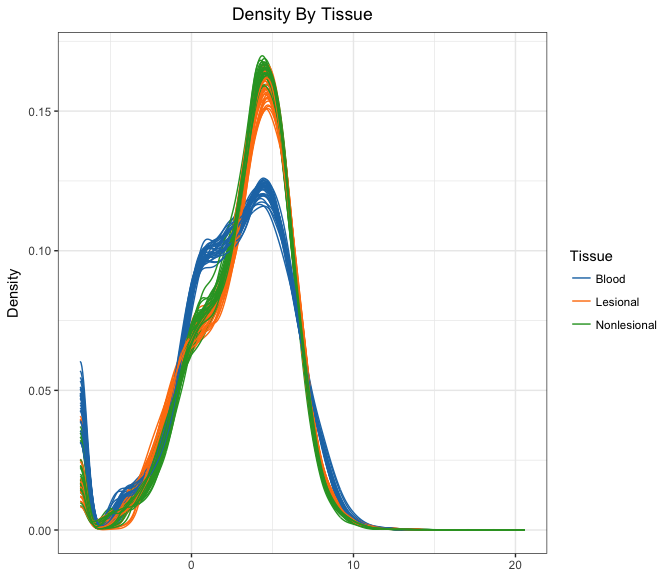
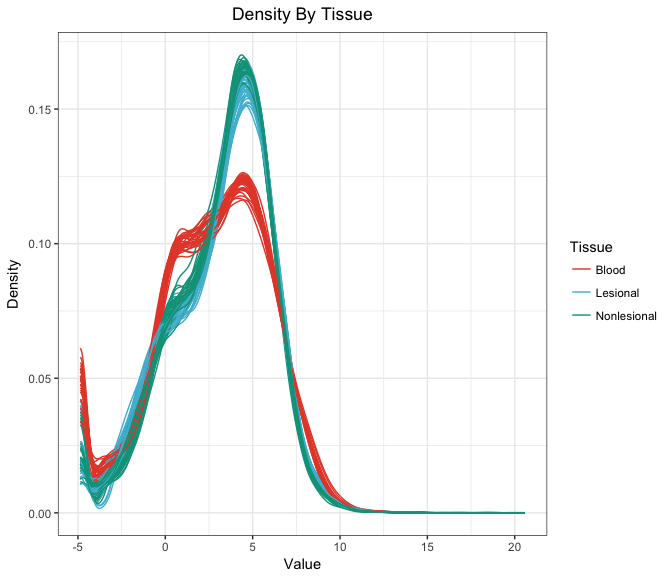
npg()

diff --git a/Scripts/Response.md b/Scripts/Response.md
@@ -7,7 +7,7 @@ Differential Expression by Biologic Response
 -   [Models](#models)
 -   [Differential Expression Analysis](#differential-expression-analysis)
 
-All analysis was conducted in R version 3.3.3 using the following script. Computations were performed on a MacBook Pro with 16GB of RAM.
+All analysis was conducted in R version 3.4.0 using the following script. Computations were performed on a MacBook Pro with 16GB of RAM and an i7 quad-core processor.
 
 If you haven't already installed the `bioplotr` package, you'll need to do so to reproduce some of the figures below.
 
@@ -20,9 +20,11 @@ library(data.table)
 library(tximport)
 library(edgeR)
 library(limma)
+library(ggplot2)
 library(bioplotr)
+library(ggsci)
 library(qvalue)
-library(tidyverse)
+library(dplyr)
 ```
 
 Import Data
@@ -36,7 +38,7 @@ clin <- fread('./Data/Clinical.csv') %>%
   mutate(Subject.Tissue = paste(Subject, Tissue, sep = '.'))
 t2g <- fread('./Data/Hs79.t2g.csv')
 files <- file.path('./Data/RawCounts', clin$Sample, 'abundance.tsv')
-txi <- tximport(files, type = 'kallisto', tx2gene = t2g, reader = fread, 
+txi <- tximport(files, type = 'kallisto', tx2gene = t2g, importer = fread, 
                 countsFromAbundance = 'lengthScaledTPM')
 ```
 
@@ -187,7 +189,7 @@ Exploratory Data Analysis
 All EDA is conducted on the log2-CPM scale of the normalised count matrix.
 
 ``` r
-mat <- cpm(y, log = TRUE)
+mat <- cpm(y, log = TRUE, prior.count = 1)
 ```
 
 Mean-Variance Trend
@@ -226,7 +228,7 @@ Sample Similarity Matrix
 We build a sample similarity matrix by calculating the pairwise Euclidean distance between all samples in the data. This matrix is then visualised as a heatmap and used to generate a hierarchical clustering dendrogram.
 
 ``` r
-plot_similarity(mat, anno = list('Tissue' = clin$Tissue))
+plot_similarity(mat, group = list('Tissue' = clin$Tissue))
 ```
 
 <p align='center'>
@@ -285,6 +287,7 @@ df <- data_frame(Sample = paste0('S', seq_len(89)),
 # Plot results
 ggplot(df, aes(Sample, Weight, fill = Tissue)) +
   geom_bar(stat = 'identity') + 
+  scale_fill_npg() + 
   geom_hline(yintercept = 1, linetype = 'dashed') + 
   labs(title = 'Library Quality by Tissue') + 
   theme_bw() + 
@@ -438,6 +441,7 @@ It appears there are signs of differential expression at each tissue-time, but t
 ``` r
 ggplot(df, aes(Time, DEgenes, fill = Tissue)) + 
   geom_bar(stat = 'identity', position = 'dodge') + 
+  scale_fill_npg() + 
   labs(title = 'Differential Expression by Tissue and Time',
            y = 'Differentially Expressed Genes (10% FDR)') + 
   theme_bw() + 
